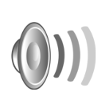
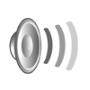
Added Mute Controls - Closes #54

diff --git a/src/com/lionsteel/tiles/SharedResources.java b/src/com/lionsteel/tiles/SharedResources.java
@@ -22,9 +22,9 @@ import com.lionsteel.tiles.Constants.TilesConstants;
 public class SharedResources implements TilesConstants
 {
 	private TilesMainActivity		activity;
-	
+
 	private static SharedResources	instance;
-	
+
 	public final TextureRegion		backgroundRegion;
 	public final TextureRegion		touchImageRegion;
 	public final TextureRegion		readyRegion;
@@ -34,39 +34,39 @@ public class SharedResources implements TilesConstants
 	public final TextureRegion		displayIndicatorRegion;
 	public final TextureRegion		pauseButtonRegion;
 	public final TextureRegion		exitGameButtonRegion;
+	public final TextureRegion		cancelImageRegion;
 	public final Font				mFont;
 	public final ITexture			fontTexture;
-	
+	public final TextureRegion		musicNoteRegion;
+	public final TextureRegion		soundEffectImageRegion;
+
 	public Sound[]					playerOneTileCollectSounds	= new Sound[1];
 	public Sound[]					playerTwoTileCollectSounds	= new Sound[1];
-	
+
 	public Sound					wrongTileSound;
 	public Sound					tileCrashSound;
 	public Sound					insaneSound;
 	public Sound					insaneJump;
-	
+
 	public static SharedResources getInstance()
 	{
 		if (instance == null)
 			instance = new SharedResources();
 		return instance;
 	}
-	
+
 	public SharedResources()
 	{
 		instance = this;
 		activity = TilesMainActivity.getInstance();
-		
+
 		FontFactory.setAssetBasePath("fonts/");
 		fontTexture = new BitmapTextureAtlas(activity.getTextureManager(), 1024, 1024);
 		mFont = FontFactory.createFromAsset(activity.getFontManager(), fontTexture, activity.getAssets(), "gameFont.ttf", 18f, true, android.graphics.Color.WHITE);
 		fontTexture.load();
 		mFont.load();
-		
+
 		final BuildableBitmapTextureAtlas buildableAtlas = new BuildableBitmapTextureAtlas(activity.getTextureManager(), 1024, 1024);
-		// final BitmapTextureAtlas atlas = new
-		// BitmapTextureAtlas(activity.getTextureManager(), 1024, 1024,
-		// TextureOptions.BILINEAR);
 		BitmapTextureAtlasTextureRegionFactory.setAssetBasePath("gfx/SharedResources/");
 		touchImageRegion = BitmapTextureAtlasTextureRegionFactory.createFromAsset(buildableAtlas, activity, "touchImage.png");
 		readyRegion = BitmapTextureAtlasTextureRegionFactory.createFromAsset(buildableAtlas, activity, "ready.png");
@@ -78,11 +78,14 @@ public class SharedResources implements TilesConstants
 		modeRegion[GameMode.TIME_ATTACK] = BitmapTextureAtlasTextureRegionFactory.createFromAsset(buildableAtlas, activity, "timeAttack.png");
 		pauseButtonRegion = BitmapTextureAtlasTextureRegionFactory.createFromAsset(buildableAtlas, activity, "pauseButton.png");
 		exitGameButtonRegion = BitmapTextureAtlasTextureRegionFactory.createFromAsset(buildableAtlas, activity, "exitButton.png");
-		
+		cancelImageRegion = BitmapTextureAtlasTextureRegionFactory.createFromAsset(buildableAtlas, activity, "cancelImage.png");
+		soundEffectImageRegion = BitmapTextureAtlasTextureRegionFactory.createFromAsset(buildableAtlas, activity, "soundEffectImage.png");
+		musicNoteRegion = BitmapTextureAtlasTextureRegionFactory.createFromAsset(buildableAtlas, activity, "musicNote.png");
+
 		yesRegion = BitmapTextureAtlasTextureRegionFactory.createFromAsset(buildableAtlas, activity, "yes.png");
 		noRegion = BitmapTextureAtlasTextureRegionFactory.createFromAsset(buildableAtlas, activity, "no.png");
 		displayIndicatorRegion = BitmapTextureAtlasTextureRegionFactory.createFromAsset(buildableAtlas, activity, "displayIndicator.png");
-		
+
 		try
 		{
 			buildableAtlas.build(new BlackPawnTextureAtlasBuilder<IBitmapTextureAtlasSource, BitmapTextureAtlas>(2, 2, 4));
@@ -91,7 +94,7 @@ public class SharedResources implements TilesConstants
 		{
 			Debug.e(e);
 		}
-		
+
 		final BuildableBitmapTextureAtlas secondAtlas = new BuildableBitmapTextureAtlas(activity.getTextureManager(), 1024, 1024);
 		backgroundRegion = (TextureRegion) BitmapTextureAtlasTextureRegionFactory.createFromAsset(secondAtlas, activity, "background.png");
 		try
@@ -122,14 +125,14 @@ public class SharedResources implements TilesConstants
 			insaneSound.setVolume(SOUND_EFFECT_VOLUME);
 			insaneJump = SoundFactory.createSoundFromAsset(activity.getSoundManager(), activity, "insaneJump.wav");
 			insaneJump.setVolume(SOUND_EFFECT_VOLUME);
-			
+
 		} catch (IOException e)
 		{
 			Debug.e(e);
 		}
-		
+
 	}
-	
+
 	public static void clear()
 	{
 		instance = null;

diff --git a/src/com/lionsteel/tiles/Scenes/MenuScenes/SetupScene.java b/src/com/lionsteel/tiles/Scenes/MenuScenes/SetupScene.java
@@ -1,5 +1,6 @@
 package com.lionsteel.tiles.Scenes.MenuScenes;
 
+import org.andengine.audio.music.exception.MusicException;
 import org.andengine.entity.IEntity;
 import org.andengine.entity.modifier.AlphaModifier;
 import org.andengine.entity.modifier.DelayModifier;
@@ -22,6 +23,8 @@ import com.lionsteel.tiles.BaseClasses.TilesMenuScene;
 import com.lionsteel.tiles.Constants.Difficulty;
 import com.lionsteel.tiles.Constants.FlurryAgentEventStrings;
 import com.lionsteel.tiles.Constants.GameMode;
+import com.lionsteel.tiles.Entities.MusicMuteControl;
+import com.lionsteel.tiles.Entities.SoundEffectMuteControl;
 import com.lionsteel.tiles.Entities.Tileset;
 import com.lionsteel.tiles.Entities.TilesetEntity;
 
@@ -30,10 +33,13 @@ public class SetupScene extends TilesMenuScene
 	final TilesMainActivity				activity;
 	final BuildableBitmapTextureAtlas	sceneAtlas;
 
-	TilesMenuButton					tilesButton;
-	final TilesMenuButton[]			difficultyButtons	= new TilesMenuButton[4];
-	final TilesMenuButton[]			gameModeSprite		= new TilesMenuButton[6];
+	TilesMenuButton						tilesButton;
+	final TilesMenuButton[]				difficultyButtons	= new TilesMenuButton[4];
+	final TilesMenuButton[]				gameModeSprite		= new TilesMenuButton[6];
 	final TilesMenuButton				playButton;
+
+	final SoundEffectMuteControl		soundEffectMute;
+	final MusicMuteControl				musicMute;
 
 	final MultiplayerModeSelectScene	modeSelectScreen;
 	final SkillSelectScene				skillSelectScene;
@@ -199,6 +205,15 @@ public class SetupScene extends TilesMenuScene
 		skillSelectScene = new SkillSelectScene();
 		tilesetSelectScene = new TilesetSelectScene();
 		practiceModeSelectScene = new PracticeModeSelectScene();
+
+		musicMute = new MusicMuteControl();
+		soundEffectMute = new SoundEffectMuteControl();
+
+		musicMute.setPosition(CAMERA_WIDTH - musicMute.getWidth()- BACK_ARROW_PADDING, BACK_ARROW_PADDING);
+		soundEffectMute.setPosition(CAMERA_WIDTH - soundEffectMute.getWidth() - BACK_ARROW_PADDING, musicMute.getBottom());
+
+		addButton(musicMute);
+		addButton(soundEffectMute);
 
 		sceneAtlas = new BuildableBitmapTextureAtlas(activity.getTextureManager(), 1024, 1024);
 

diff --git a/src/com/lionsteel/tiles/BaseClasses/MuteControl.java b/src/com/lionsteel/tiles/BaseClasses/MuteControl.java
@@ -1,0 +1,40 @@
+package com.lionsteel.tiles.BaseClasses;
+
+import org.andengine.audio.BaseAudioManager;
+import org.andengine.audio.IAudioEntity;
+import org.andengine.entity.sprite.Sprite;
+import org.andengine.opengl.texture.region.TextureRegion;
+
+import com.lionsteel.tiles.SharedResources;
+import com.lionsteel.tiles.TilesMainActivity;
+
+public abstract class MuteControl<T extends BaseAudioManager<? extends IAudioEntity>> extends TilesMenuButton
+{
+	private Sprite	cancelSprite;
+	private boolean	isMuted;
+	protected T		audioManager;
+
+	public MuteControl(TextureRegion buttonRegion)
+	{
+		super(buttonRegion, null);
+		cancelSprite = new Sprite(0, 0, SharedResources.getInstance().cancelImageRegion, TilesMainActivity.getInstance().getVertexBufferObjectManager());
+		this.attachChild(cancelSprite);
+		cancelSprite.setVisible(isMuted);
+	}
+
+	@Override
+	protected void runAction()
+	{
+		if (audioManager.getMasterVolume() > 0)
+		{
+			audioManager.setMasterVolume(0);
+			isMuted = true;
+		} else
+		{
+			audioManager.setMasterVolume(1.0f);
+			isMuted = false;
+		}
+		cancelSprite.setVisible(isMuted);
+	}
+
+}

diff --git a/src/com/lionsteel/tiles/BaseClasses/TilesMenuButton.java b/src/com/lionsteel/tiles/BaseClasses/TilesMenuButton.java
@@ -16,8 +16,11 @@ public class TilesMenuButton extends Entity implements TilesConstants
 
 	private int		mPointerID	= -1;
 
+	final Runnable	action;
+
 	public TilesMenuButton(final TextureRegion buttonRegion, final Runnable action)
 	{
+		this.action = action;
 		buttonSprite = new Sprite(0, 0, buttonRegion, TilesMainActivity.getInstance().getVertexBufferObjectManager())
 		{
 			@Override
@@ -41,7 +44,7 @@ public class TilesMenuButton extends Entity implements TilesConstants
 					{
 						buttonSprite.setColor(1.0f, 1.0f, 1.0f);
 						mPointerID = -1;
-						action.run();
+						runAction();
 					}
 					break;
 				}
@@ -65,6 +68,11 @@ public class TilesMenuButton extends Entity implements TilesConstants
 		super.registerEntityModifier(pEntityModifier);
 	}
 
+	protected void runAction()
+	{
+		action.run();
+	}
+
 	public void clearButtonChildren()
 	{
 		this.detachChildren();
@@ -85,7 +93,7 @@ public class TilesMenuButton extends Entity implements TilesConstants
 	{
 		return buttonSprite.getWidth();
 	}
-	
+
 	public float getHeight()
 	{
 		return buttonSprite.getHeight();

diff --git a/src/com/lionsteel/tiles/Entities/SoundEffectMuteControl.java b/src/com/lionsteel/tiles/Entities/SoundEffectMuteControl.java
@@ -1,0 +1,18 @@
+package com.lionsteel.tiles.Entities;
+
+import org.andengine.audio.sound.SoundManager;
+
+import com.lionsteel.tiles.SharedResources;
+import com.lionsteel.tiles.TilesMainActivity;
+import com.lionsteel.tiles.BaseClasses.MuteControl;
+
+public class SoundEffectMuteControl extends MuteControl<SoundManager>
+{
+
+	public SoundEffectMuteControl()
+	{
+		super(SharedResources.getInstance().soundEffectImageRegion);
+		this.audioManager = TilesMainActivity.getInstance().getSoundManager();
+	}
+
+}

diff --git a/src/com/lionsteel/tiles/Entities/MusicMuteControl.java b/src/com/lionsteel/tiles/Entities/MusicMuteControl.java
@@ -1,0 +1,16 @@
+package com.lionsteel.tiles.Entities;
+
+import org.andengine.audio.music.MusicManager;
+
+import com.lionsteel.tiles.SharedResources;
+import com.lionsteel.tiles.TilesMainActivity;
+import com.lionsteel.tiles.BaseClasses.MuteControl;
+
+public class MusicMuteControl extends MuteControl<MusicManager>
+{
+	public MusicMuteControl()
+	{
+		super(SharedResources.getInstance().musicNoteRegion);
+		audioManager = TilesMainActivity.getInstance().getMusicManager();
+	}
+}

diff --git a/src/com/lionsteel/tiles/BaseClasses/TilesMenuScene.java b/src/com/lionsteel/tiles/BaseClasses/TilesMenuScene.java
@@ -45,6 +45,7 @@ public abstract class TilesMenuScene extends Scene implements TilesConstants
 		backButton.setZIndex(FOREGROUND_Z);
 		backButton.setVisible(false);
 		backButton.registerOwnTouchArea(this);
+		backButton.setPosition(BACK_ARROW_PADDING, BACK_ARROW_PADDING);
 		this.sortChildren(false);
 	}
 	
